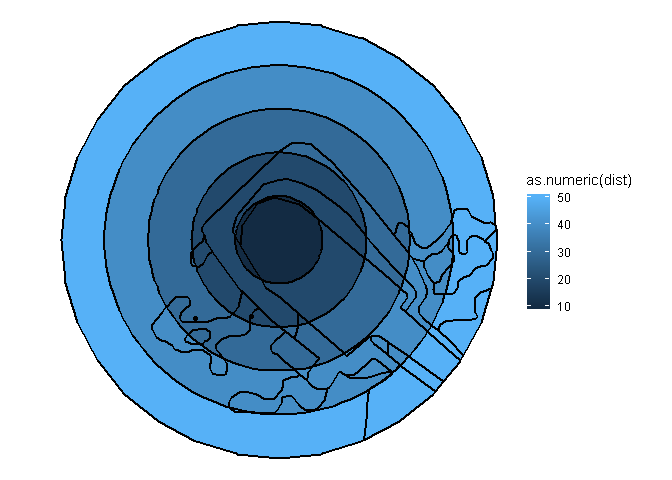
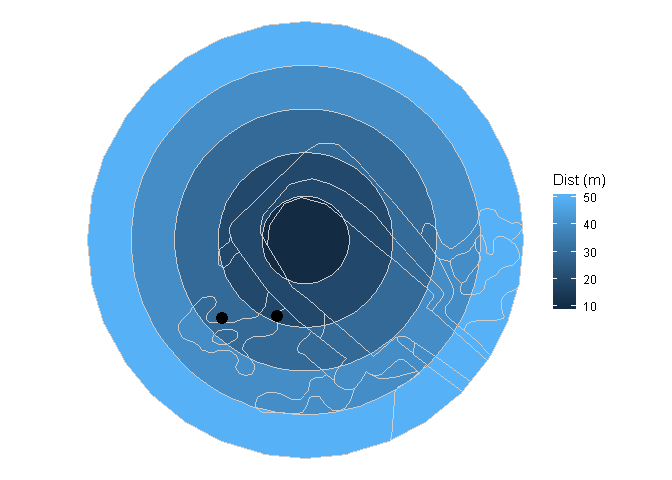
documents

Changed region(s): [[0.0938, 0.0312, 0.9375, 0.9688]]

diff --git a/README.md b/README.md
@@ -1,43 +1,46 @@
 
 <!-- README.md is generated from README.Rmd. Please edit that file -->
-genestdwp
+GenestDwp
 =========
 
 <!-- badges: start -->
 <!-- badges: end -->
-The goal of genestdwp is to ...
+The goal of genestdwp is to obtain the dwp (density weighted proportion) file required to run GenEst. It will require shapefiles for visibility map around each turbine and the carcass locations. Both layers will tipically be obtained from GIS. [![DOI](https://zenodo.org/badge/237538088.svg)](https://zenodo.org/badge/latestdoi/237538088)
+
+Disclaimer
+----------
+
+This software is preliminary or provisional. No warranty, expressed or implied, is made by the mantainer. Software releases constitute no warranty. The software is provided as is on the condition that the mantainer shall not be held liable or responsible for any damages resulting from the authorized or unauthorized use of the software.
+
+What is GenEst?
+---------------
+
+GenEst is a generalized, unbiased, fatality estimator developed by [USGS](https://www.usgs.gov/software/genest-a-generalized-estimator-mortality). Additional information and details available from the [software User Guide](https://doi.org/10.3133/tm7C19), the [package repository](https://doi.org/10.5066/P9O9BATL), and the [technical report](https://doi.org/10.3133/tm7A2). The material from a USGS "Into to GenEst" workshop is also available from [here](https://www.usgs.gov/media/files/intro-genest-workshop-nwcc-26nov2018).
 
 Installation
 ------------
 
-You can install the released version of genestdwp from [Github](https://https://github.com/) with:
+You can install the released version of genestdwp from [Github](https:://github.com/PauloEduardoCardoso/genestdwp) with:
 
 ``` r
 library(devtools)
 install_github("PauloEduardoCardoso/genestdwp")
 ```
 
+Contribute
+----------
+
+You are welcome to contribute to the package development and improvment by [filling an issue](https://github.com/PauloEduardoCardoso/genestdwp/issues) at the software webpage.
+
 Example
 -------
 
-This is a basic example:
+Run a basic example with the provided data:
 
 ``` r
 library(genestdwp)
-library(genestdwp)
-library(sf)
-#> Linking to GEOS 3.6.1, GDAL 2.2.3, PROJ 4.9.3
-library(ggplot2)
 library(sf)
 library(tidyverse)
-#> -- Attaching packages ------------------------------------------------------------------------------------------------------ tidyverse 1.3.0.9000 --
-#> v tibble  2.1.3     v dplyr   0.8.3
-#> v tidyr   1.0.0     v stringr 1.4.0
-#> v readr   1.3.1     v forcats 0.4.0
-#> v purrr   0.3.3
-#> -- Conflicts -------------------------------------------------------------------------------------------------------------- tidyverse_conflicts() --
-#> x dplyr::filter() masks stats::filter()
-#> x dplyr::lag()    masks stats::lag()
 # Vector of distances
 dist = units::set_units(c(10, 20, 30, 40, 50), m)
 # Spatial join among visibility map and rings
@@ -64,8 +67,6 @@ pto_carcass
 #>  9     1 Falco tinnunculus Ave   grande      (129281 268825)
 #> 10    11 NI Corvideo       Ave   grande  (129573.4 269429.5)
 #> # ... with 44 more rows
-unique(pto_carcass$tamanho)
-#> [1] "grande"
 # Get DWP
 dfdwp <- dwp(vr = rings, pt = pto_carcass)
 #> [1] "Attention!"
@@ -98,10 +99,11 @@ dfdwp
 #> # ... with 27 more rows
 # Plot some data together
 ggplot() +
-  geom_sf(aes(fill = as.numeric(dist)), colour = 'black',
-          size = .8, data = filter(rings, ag == 1)) +
-  geom_sf(data = filter(pto_carcass, ag == 1)) +
+  geom_sf(aes(fill = as.numeric(dist)), colour = 'grey80',
+          size = .1, data = filter(rings, ag == 1)) +
+  geom_sf(data = filter(pto_carcass, ag == 1), size = 4) +
+  scale_fill_continuous('Dist (m)')+
   theme_void()
 ```
 
-<img src="man/figures/README-example-1.png" width="100%" />
+<img src="man/figures/README-example-1.png" width="75%" />
